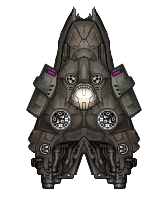
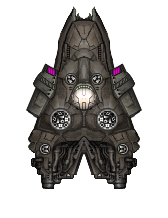
Improved Arrow base sprite and its panels, now panels also slide on Y for a diagonal movement on system use. New Sprite for Arrow side panels. Delayed system chargedown for Arrow.

Changed region(s): [[0.6548, 0.3028, 0.7738, 0.4128], [0.2083, 0.3028, 0.3571, 0.4128]]

diff --git a/src/data/scripts/sillyArrowMissilesAnimL.java b/src/data/scripts/sillyArrowMissilesAnimL.java
@@ -1,8 +1,6 @@
 package data.scripts;
 
-import com.fs.starfarer.api.Global;
 import com.fs.starfarer.api.combat.*;
-import org.magiclib.util.MagicAnim;
 
 public class sillyArrowMissilesAnimL implements EveryFrameWeaponEffectPlugin {
 
@@ -10,6 +8,7 @@ public class sillyArrowMissilesAnimL implements EveryFrameWeaponEffectPlugin {
         return 10f;
     }
     float ox1;
+    float oy1;
     boolean runOnce = false;
     @Override
     public void advance(float amount, CombatEngineAPI engine, WeaponAPI weapon) {
@@ -18,6 +17,7 @@ public class sillyArrowMissilesAnimL implements EveryFrameWeaponEffectPlugin {
         if(!ship.isAlive())return;
         if(!runOnce){
             ox1 = weapon.getSprite().getCenterX();
+            oy1 = weapon.getSprite().getCenterY();
             runOnce=true;
         }
         ShipSystemAPI sys = ship.getSystem();
@@ -25,5 +25,6 @@ public class sillyArrowMissilesAnimL implements EveryFrameWeaponEffectPlugin {
         float l1 = sys.getEffectLevel();
         float l2 = l1*l1;
         weapon.getSprite().setCenterX(ox1+l2*offset());
+        weapon.getSprite().setCenterY(oy1-l2*offset());
     }
 }

diff --git a/src/data/scripts/sillyArrowMissilesAnimR.java b/src/data/scripts/sillyArrowMissilesAnimR.java
@@ -8,6 +8,7 @@ public class sillyArrowMissilesAnimR implements EveryFrameWeaponEffectPlugin {
         return -10f;
     }
     float ox1;
+    float oy1;
     boolean runOnce = false;
     @Override
     public void advance(float amount, CombatEngineAPI engine, WeaponAPI weapon) {
@@ -16,6 +17,7 @@ public class sillyArrowMissilesAnimR implements EveryFrameWeaponEffectPlugin {
         if(!ship.isAlive())return;
         if(!runOnce){
             ox1 = weapon.getSprite().getCenterX();
+            oy1 = weapon.getSprite().getCenterY();
             runOnce=true;
         }
         ShipSystemAPI sys = ship.getSystem();
@@ -23,5 +25,6 @@ public class sillyArrowMissilesAnimR implements EveryFrameWeaponEffectPlugin {
         float l1 = sys.getEffectLevel();
         float l2 = l1*l1;
         weapon.getSprite().setCenterX(ox1+l2*offset());
+        weapon.getSprite().setCenterY(oy1+l2*offset());
     }
 }
